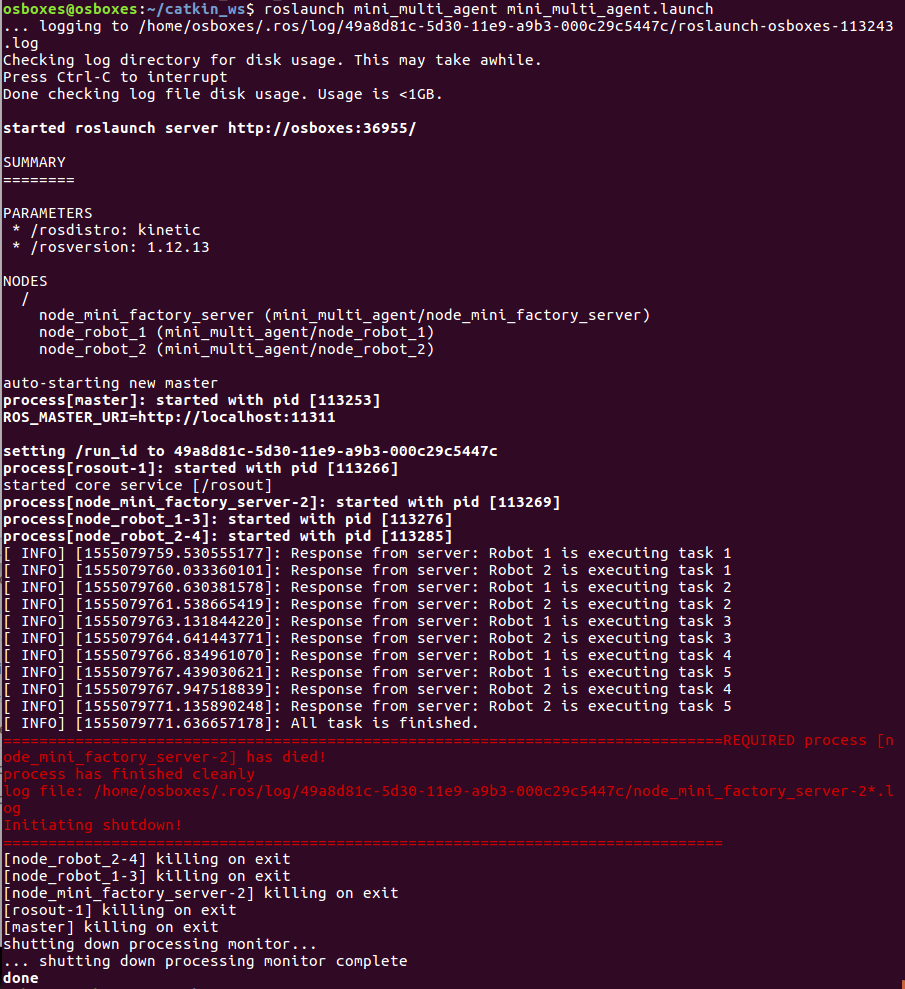
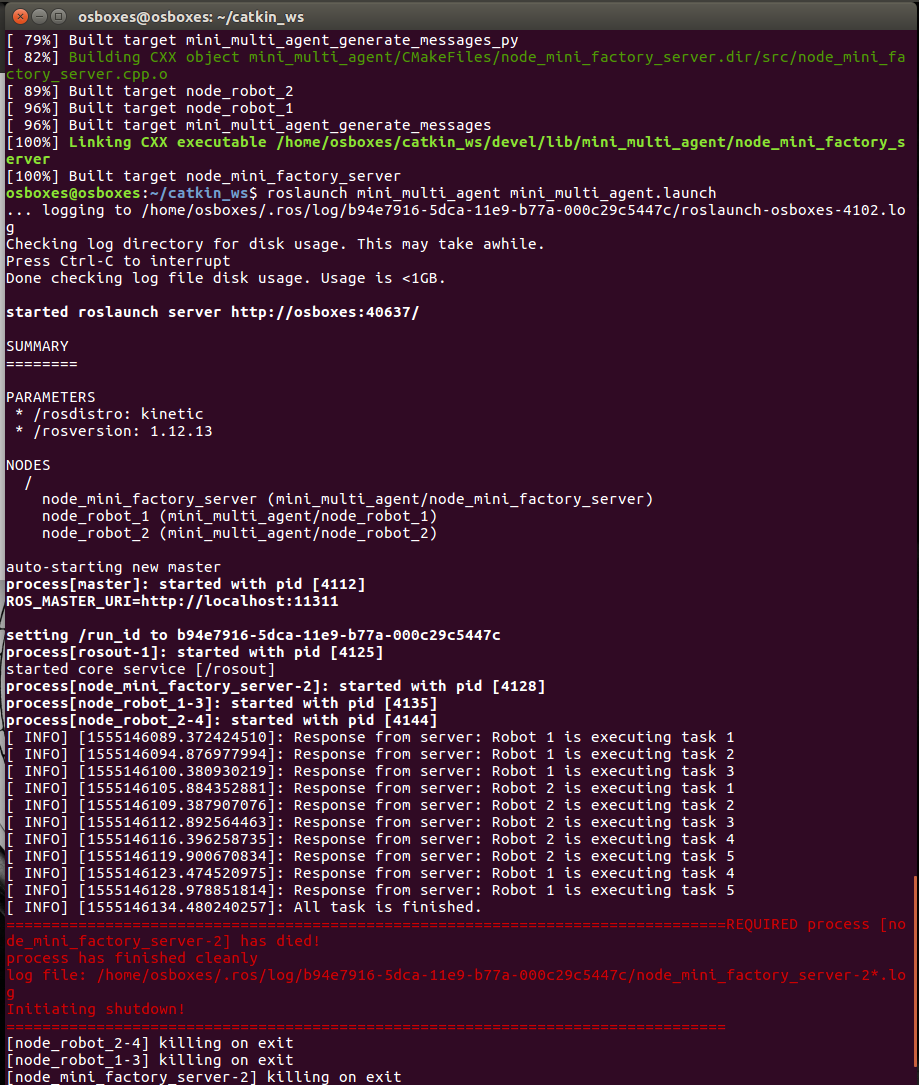
Update readme & task scheduler.

diff --git a/src/node_mini_factory_server.cpp b/src/node_mini_factory_server.cpp
@@ -14,7 +14,7 @@ struct RobotAgent{
   int ID;
   int task_ID;
   bool finished;
-  string state; 
+  string state;
 };
 
 class FactoryServer{
@@ -23,10 +23,9 @@ public:
   void feedbackCallback(const mini_multi_agent::feedback::ConstPtr &msg);
   bool runRobotTask1(ros::ServiceClient& client1,int task_ID);
   bool runRobotTask2(ros::ServiceClient& client2,int task_ID);
-  void taskScheduler();
-  void updateState(){
-    sub = n.subscribe("/agent_feedback", 1, &FactoryServer::feedbackCallback, this);
-  }
+  void taskScheduler1();
+  void taskScheduler2();
+
   ~FactoryServer(){}
 
 private:
@@ -42,7 +41,7 @@ private:
 
 FactoryServer::FactoryServer(){
   // 
-  
+  sub = n.subscribe("/agent_feedback", 1, &FactoryServer::feedbackCallback, this);
   client1 = n.serviceClient<mini_multi_agent::task1>("/agent_task_1");
   client2 = n.serviceClient<mini_multi_agent::task2>("/agent_task_2");
   robot1 = {ID:1, task_ID:0,finished:false,state:"ready"};
@@ -70,6 +69,7 @@ bool FactoryServer::runRobotTask1(ros::ServiceClient& client1,int task_ID){
     {
       ROS_INFO("Response from server: %s", srv1.response.feedback.c_str());
       robot1.state = "executing";
+      ros::Duration(5).sleep();
       return true;
     }
     else{
@@ -85,6 +85,7 @@ bool FactoryServer::runRobotTask2(ros::ServiceClient& client2,int task_ID){
     {
       ROS_INFO("Response from server: %s", srv2.response.feedback.c_str());
       robot2.state = "executing";
+      ros::Duration(3).sleep();
       return true;
     }
     else{
@@ -93,7 +94,7 @@ bool FactoryServer::runRobotTask2(ros::ServiceClient& client2,int task_ID){
     }
 }
 
-void FactoryServer::taskScheduler()
+void FactoryServer::taskScheduler1()
 {
 
   if(robot1.task_ID>=5) robot1.finished = true;
@@ -105,18 +106,33 @@ void FactoryServer::taskScheduler()
     ros::shutdown();
   }
 
-  sub = n.subscribe("/agent_feedback", 1, &FactoryServer::feedbackCallback, this);
-
   if(robot1.state=="ready" && !robot1.finished){
     robot1.task_ID++;
     runRobotTask1(client1,robot1.task_ID);
     ros::Duration(0.5).sleep();
   }
-  if(robot2.state=="ready" && !robot2.finished){
+  else if(robot2.state=="ready" && !robot2.finished){
     robot2.task_ID++;
     runRobotTask2(client2,robot2.task_ID);
     ros::Duration(0.5).sleep();        
   }
+}
+
+void FactoryServer::taskScheduler2()
+{
+  if(robot1.task_ID>=5) robot1.finished = true;
+  if(robot2.task_ID>=5) robot2.finished = true;
+
+  if(robot1.finished && robot2.finished)
+  {
+    ROS_INFO("All task is finished.");
+    ros::shutdown();
+  }
+  
+
+  
+  
+
 }
 
 
@@ -141,7 +157,7 @@ int main(int argc, char **argv)
   ros::Rate loop_rate(100);
 	while(ros::ok()){
     // server.updateState();
-		server.taskScheduler();
+		server.taskScheduler1();
 		loop_rate.sleep();
 		ros::spinOnce();
 	}

diff --git a/README.md b/README.md
@@ -4,47 +4,38 @@ a mini multi agent system by using roscpp
 
 ## 使用
 
+如果ros环境默认在`catkin_ws`文件夹下，则将包放置在`catkin_ws/src`中，然后在`catkin_ws`文件夹下编译：
 
+```shell
+$ catkin_make
+$ source devel/setup.bash 
+$ rospack find mini_multi_agent
+$ roslaunch mini_multi_agent mini_multi_agent.launch
+```
 
 ## 运行结果
 
-![](https://github.com/hapuhundre/mini_multi_agent/blob/master/imgs/running_result.png)
+![1555080956774](imgs\running_result.png)
 
 
 ## 描述
 
  1.创建可编辑的ROS包
 
+ 2.在第一个ROS节点中，将其命名为`node_mini_factory_server`，创建一个ROS主题订户（主题名称`“/ agent_feedback”`）以接收代理反馈信息。 
 
+ 3.在第二个ROS节点中，将其命名为`node_robot_1`，创建一个ROS服务服务器（主题名称`“/agent_task_1”`）以从`mini_factory_server`接收任务。在`node_mini_factory`服务器ROS节点中，创建ROS服务客户端（topic名称`"/agent_task_1“`）以发送代理任务信息。
 
- 2.在第一个ROS节点中，将其命名为node_mini_factoryserver，创建一个ROS主题订户（主题名称“/ agent_feedback”）以接收代理反馈信息。 
+4.在第三个ROS节点中，将其命名为`node_robot_2`，同上，服务名称为`“/ agent_task_2”`以从`mini_factory_server`接收任务。在`node_mini_factory_server`的ROS节点中，创建ROS服务客户端（topic名称`“/ agent_task_2”`）以发送代理任务信息。
 
+ 5.使用至少2个状态实现`node_robot_1`。启动时，节点处于`“ready”`状态。从`node_mini_factory_server`接收任务后，它将转换为`“executing”`状态。大约5秒后，机器人从`“executing”`转换为`“ready”`。
 
-
- 3.在第二个ROS节点中，将其命名为node_robot_1，创建一个ROS服务服务器（主题名称“/ agent_task_1”）以从mini factory_server接收任务。在node_mini_factory_服务器ROS节点中，创建ROS服务客户端（主题名称/ agent_task_1“）以发送代理任务信息。
-
-
-
-4.在第三个ROS节点中，将其命名为node_robot_2，创建一个ROS服务服务器（名称“/ agent_task_2”）以从mini_factory_server接收任务。在node_mini_factory_server ROS节点中，创建ROS服务客户端（主题名称“/ agent_task_2”）以发送代理任务信息。
-
-
-
- 5.使用至少2个状态实现`node_robot_1`。启动时，机器人处于“就绪状态”。从`node_mini_factory_server`接收任务后，它将转换为“执行”状态。大约5秒后，机器人从“执行”转换为“准备好”。
-
-
-
- 6.使用至少2个状态实现`node_robot 2`。启动时，机器人处于“就绪”状态。从node_mini_factory_server接收任务后，它将转换为“”状态。大约3秒后机器人从“执行”转换到“准备好”。 
-
-
+ 6.使用至少2个状态实现`node_robot 2`。启动时，节点处于`“ready”`状态。从`node_mini_factory_server`接收任务后，它将转换为`“executing”`状态。大约3秒后，节点从`“executing”`转换到`“ready”`。 
 
 7  使用标识为id = 1,2,3,4,5的5个初始任务实现`node_mini_ factory_server`：`node_mini_factory_server`将在收到来自`“/agent_feedback”`机器人节点反馈后知道有2个机器人节点及其状态。
  如果该节点处于`“ready”`状态，则`node_mini_factory_server`应该将任务发送给该节点。请注意`
-node_mini_factory_ server`应该一次只向一个发送一个任务。当机器人完成任务（状态从`“executing”`转换为`“ready”`）时，如果不是所有5个任务都完成，则`node_mini_factory_server`应该向该机器人发送另一个任务。 
-
-
+node_mini_factory_ server`应该一次只向一个发送一个任务。当机器人节点完成任务（状态从`“executing”`转换为`“ready”`）时，如果不是所有5个任务都完成，则`node_mini_factory_server`应该向该节点发送另一个任务。 
 
  8.创建ROS消息`“/agent_feedback”`和ROS服务`“agent_task_x”`（x = 1,2）以满足上述需求。
-
-
 
  9.创建一个roslaunch，将启动前面提到的所有三个节点，结果应清晰地打印到屏幕上。结果应显示每个机器人状态，哪个工厂任务已完成或待处理等。
